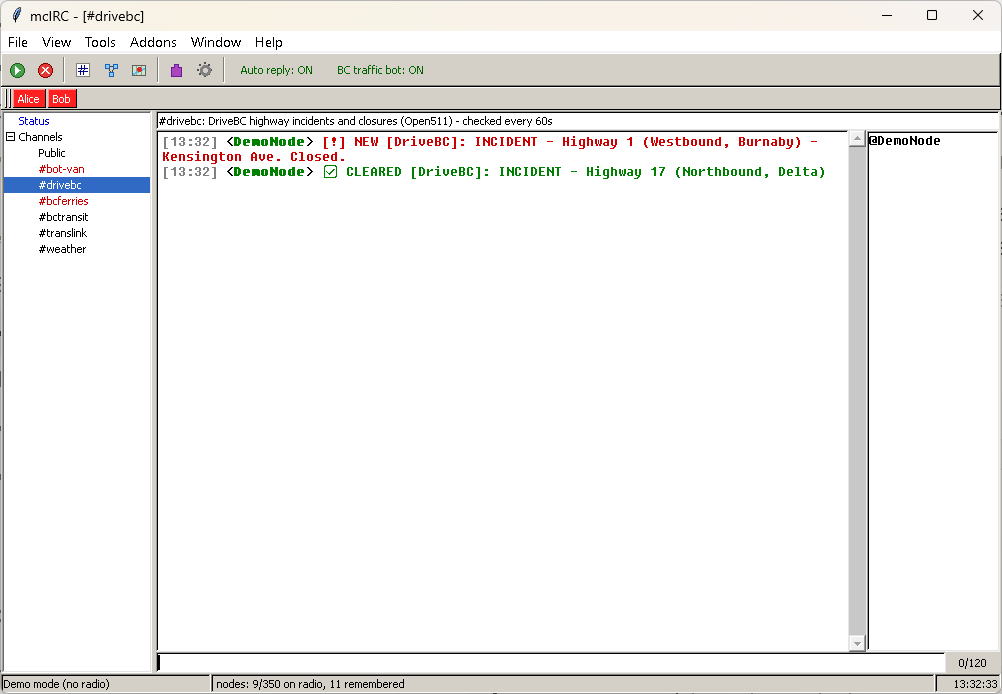
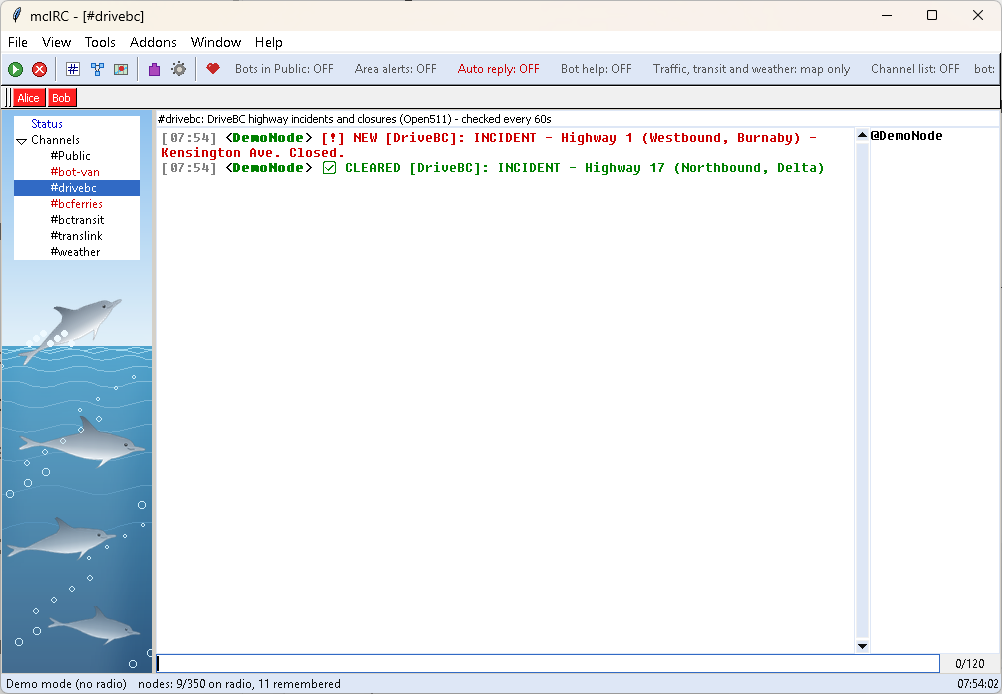
2026.10.12-2: new screenshots - the main window as it is now, and the settings of 9 addons
- docs/make_screenshots.py: demo mode from default settings (none of the maintainer's nodes, nick lists or names in public pictures);
  addon pictures from each addon's own settings window; a failing step is reported instead of leaving the window open.

Changed region(s): [[0.0, 0.0605, 1.0, 0.9986], [0.5878, 0.2421, 0.6497, 0.2723]]

diff --git a/docs/make_screenshots.py b/docs/make_screenshots.py
@@ -12,7 +12,8 @@ sys.path.insert(0, BASE)
 os.chdir(BASE)
 os.makedirs(OUT, exist_ok=True)
 
-import mcIRC, meshcore_io as io, gui_addons as ga, gui_devices, gui_dialogs, gui_update_ui   # noqa: E402
+import mcIRC, meshcore_io as io, gui_addons as ga, gui_addonsettings, gui_devices, gui_dialogs, gui_update_ui   # noqa: E402
+from tkinter import ttk   # noqa: E402
 from PIL import ImageGrab   # noqa: E402
 
 
@@ -47,6 +48,8 @@ SAMPLE_NODE = {"info": {"tx_power": 22, "max_tx_power": 22, "public_key": "a1b2c
                "core": {"battery_mv": 3947, "uptime_secs": 248451, "errors": 0, "queue_len": 0},
                "radio": {"noise_floor": -115, "last_rssi": -59, "last_snr": 13.25, "tx_air_secs": 111, "rx_air_secs": 2294}}
 
+import gui_common   # noqa: E402
+mcIRC.load_settings = lambda: dict(gui_common.DEFAULT_SETTINGS)   # a fresh setup: none of YOUR nodes, nick lists or names in public pictures
 root = tk.Tk()
 app = mcIRC.App(root, demo=True)
 ga.fetch_catalog.__defaults__ = (ga.RAW, lambda url, timeout=20: open(os.path.join(BASE, url.rsplit("/", 1)[1]), "rb").read())   # catalog from the local file
@@ -101,9 +104,7 @@ def steps():
         {"name": "Test here", "enabled": True, "triggers": "test, t", "match": "exact", "listen": "#bot-van", "reply": "@{sender} Test received, {hops} hops", "reply_to": "", "cooldown": 20},
         {"name": "Test elsewhere", "enabled": True, "triggers": "test, t", "match": "exact", "listen": "", "reply": "@{sender} Please test in #bot-van", "reply_to": "", "cooldown": 20},
         {"name": "Ferry question", "enabled": True, "triggers": "!ferry", "match": "starts with", "listen": "Public", "reply": "@{sender} sailing news is on #bcferries", "reply_to": "", "cooldown": 30}])
-    dlg.destroy(); app.open_options("Connect"); yield 600; dlg = child(gui_dialogs.OptionsDialog); dlg.node_pages.fill(SAMPLE_NODE)   # reopen so the page shows them
-    dlg.tree.selection_set("addon:auto_reply"); yield 500
-    grab(dlg, "auto-reply-options.png")
+    dlg.destroy(); app.open_options("Connect"); yield 600; dlg = child(gui_dialogs.OptionsDialog); dlg.node_pages.fill(SAMPLE_NODE)
     dlg.tree.selection_set("Connect"); yield 400
     dlg.scan_devices(); yield 2500
     grab(child(gui_devices.DeviceScanDialog), "device-scan.png")
@@ -114,12 +115,42 @@ def steps():
     gui_update_ui.CatalogDialog(app); yield 1800
     grab(child(gui_update_ui.CatalogDialog), "addons-catalog.png")
     child(gui_update_ui.CatalogDialog).destroy()
+
+    # each addon's own settings window, with example settings (demo mode never saves them)
+    def addon(name, picture, values=None, tab=None):
+        if name not in app.addons.loaded: print("not loaded:", name); return
+        api = app.addons.loaded[name][0].api
+        for k, v in (values or {}).items(): api.set(k, v)
+        win = gui_addonsettings.open_settings(app, name); yield 900
+        if tab is not None:
+            nb = next((w for w in _descendants(win) if isinstance(w, ttk.Notebook)), None)
+            if nb is not None: nb.select(tab); yield 500
+        grab(win, picture)
+        win.destroy(); yield 300
+
+    yield from addon("auto_reply", "auto-reply-options.png")       # (its example rules were set above)
+    yield from addon("broadcast_alerts", "addon-traffic.png", {"muted": False})
+    yield from addon("broadcast_alerts", "addon-traffic-route.png", {"route_on": True}, tab=3)
+    yield from addon("area_alerts", "addon-area-alerts.png")
+    yield from addon("weather_bot", "addon-weather-bot.png", {"enabled": True, "channels": "#weather"})
+    yield from addon("fun_bot", "addon-fun-bot.png", {"enabled": True, "channels": {c: "#fun" for c in ("dice", "roll", "magic8", "joke", "dadjoke", "hacker", "catfact")}})
+    yield from addon("mesh_bot", "addon-mesh-bot.png", {"enabled": True})
+    yield from addon("packet_upload", "addon-packet-upload.png")
+    yield from addon("map_uploader", "addon-map-uploader.png")
     root.destroy()
+
+
+def _descendants(w):
+    for c in w.winfo_children():
+        yield c
+        yield from _descendants(c)
 
 
 def run(gen):
     try: delay = next(gen)
     except StopIteration: return
+    except Exception:                       # a step failed: say which, and close instead of leaving the window hanging
+        import traceback; traceback.print_exc(); root.destroy(); return
     root.after(delay, lambda: run(gen))
 
 
